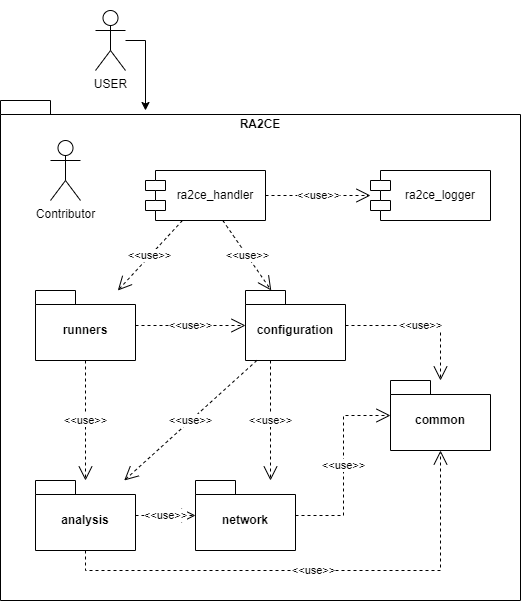
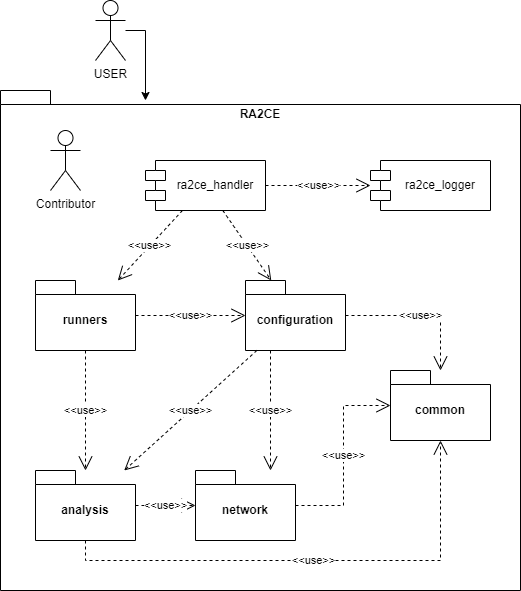
docs: Small update to diagram to avoid transparencies. Included general overview in technical documentation

diff --git a/ra2ce/README.md b/ra2ce/README.md
@@ -11,6 +11,6 @@ This package is divided into different (sub-)packages, the most relevants being 
 
 A general overview of the package relationships can be seen in the following diagram.
 
-| ![ra2ce_package_overview_.png](../docs/_diagrams/ra2ce_package_overview.png)| 
+| ![ra2ce_package_overview.png](../docs/_diagrams/ra2ce_package_overview.png)| 
 |:--:| 
 | *Ra2ce package overview* |

diff --git a/docs/technical_documentation/technical_documentation.rst b/docs/technical_documentation/technical_documentation.rst
@@ -8,3 +8,8 @@ Technical Documentation
    :maxdepth: 2
 
    network_package
+
+
+
+.. include:: ../../ra2ce/README.md
+   :parser: myst_parser.sphinx_
